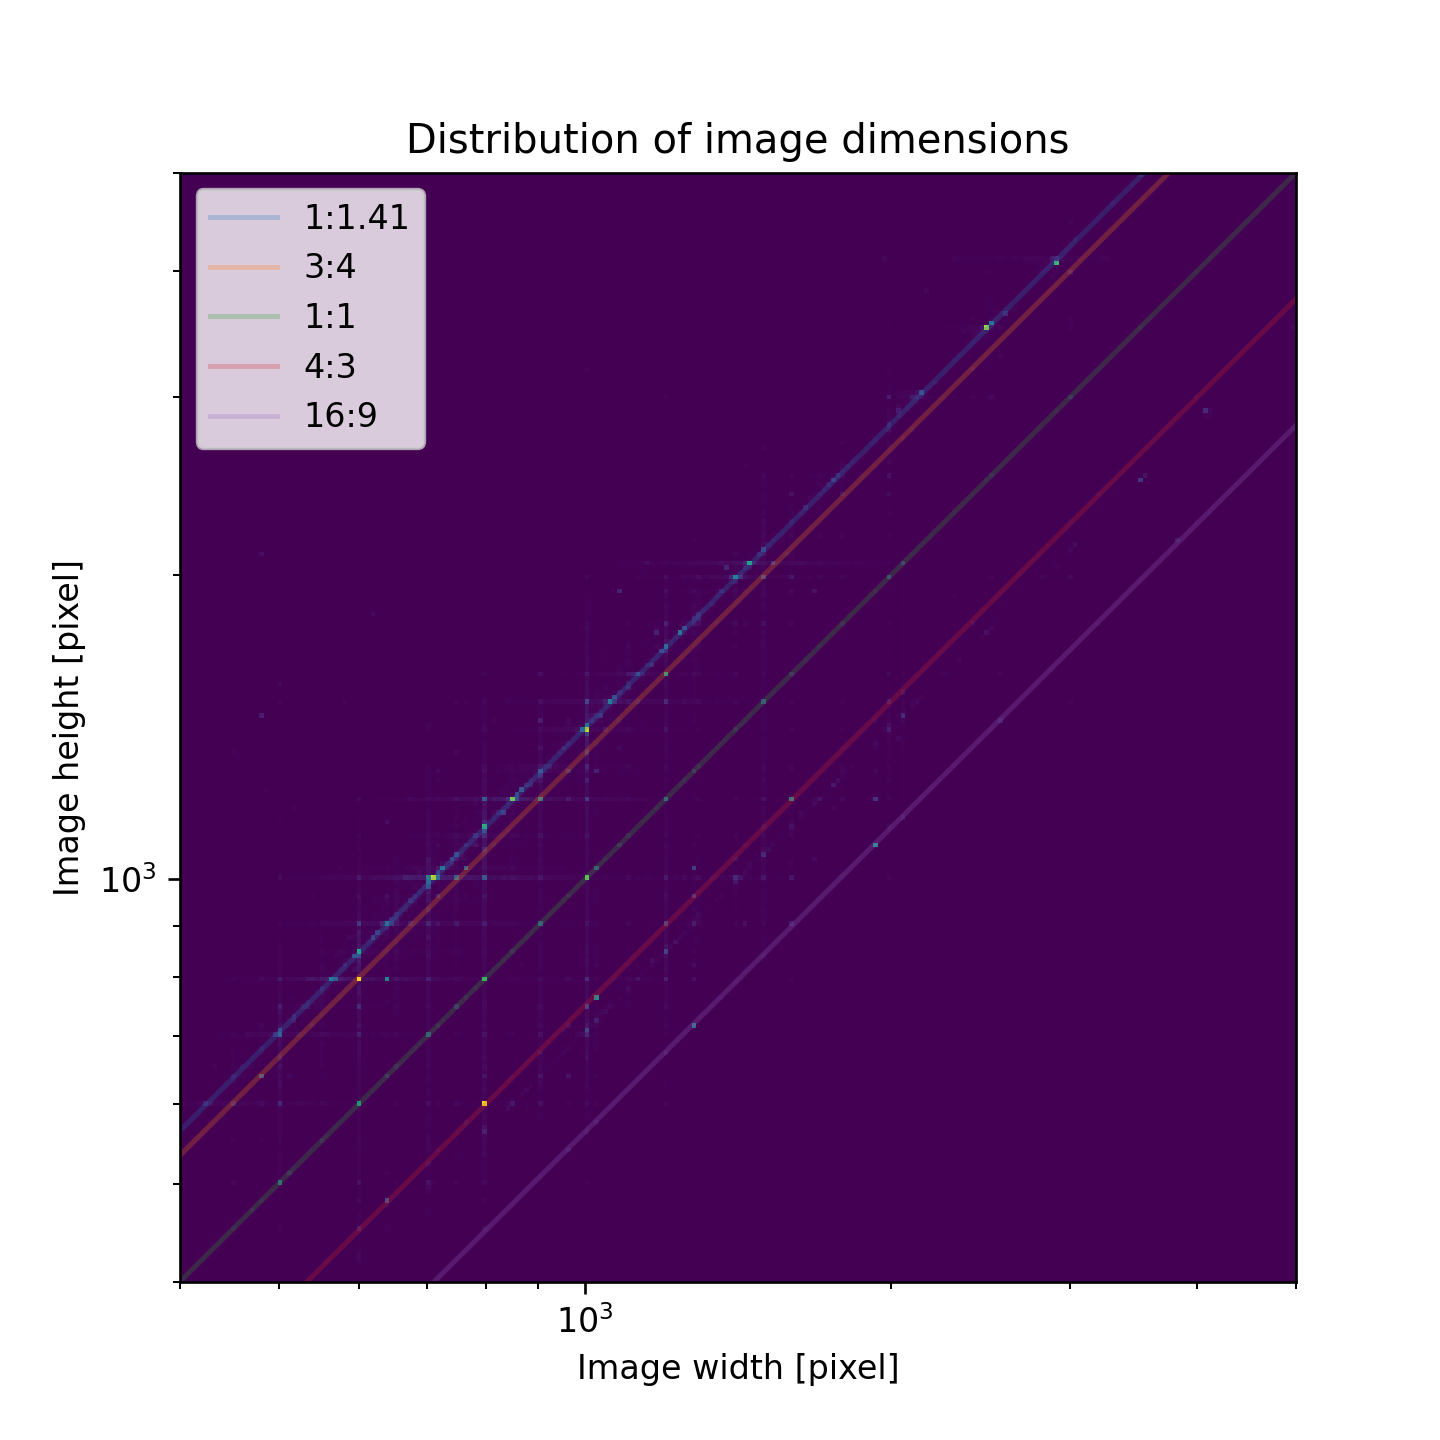
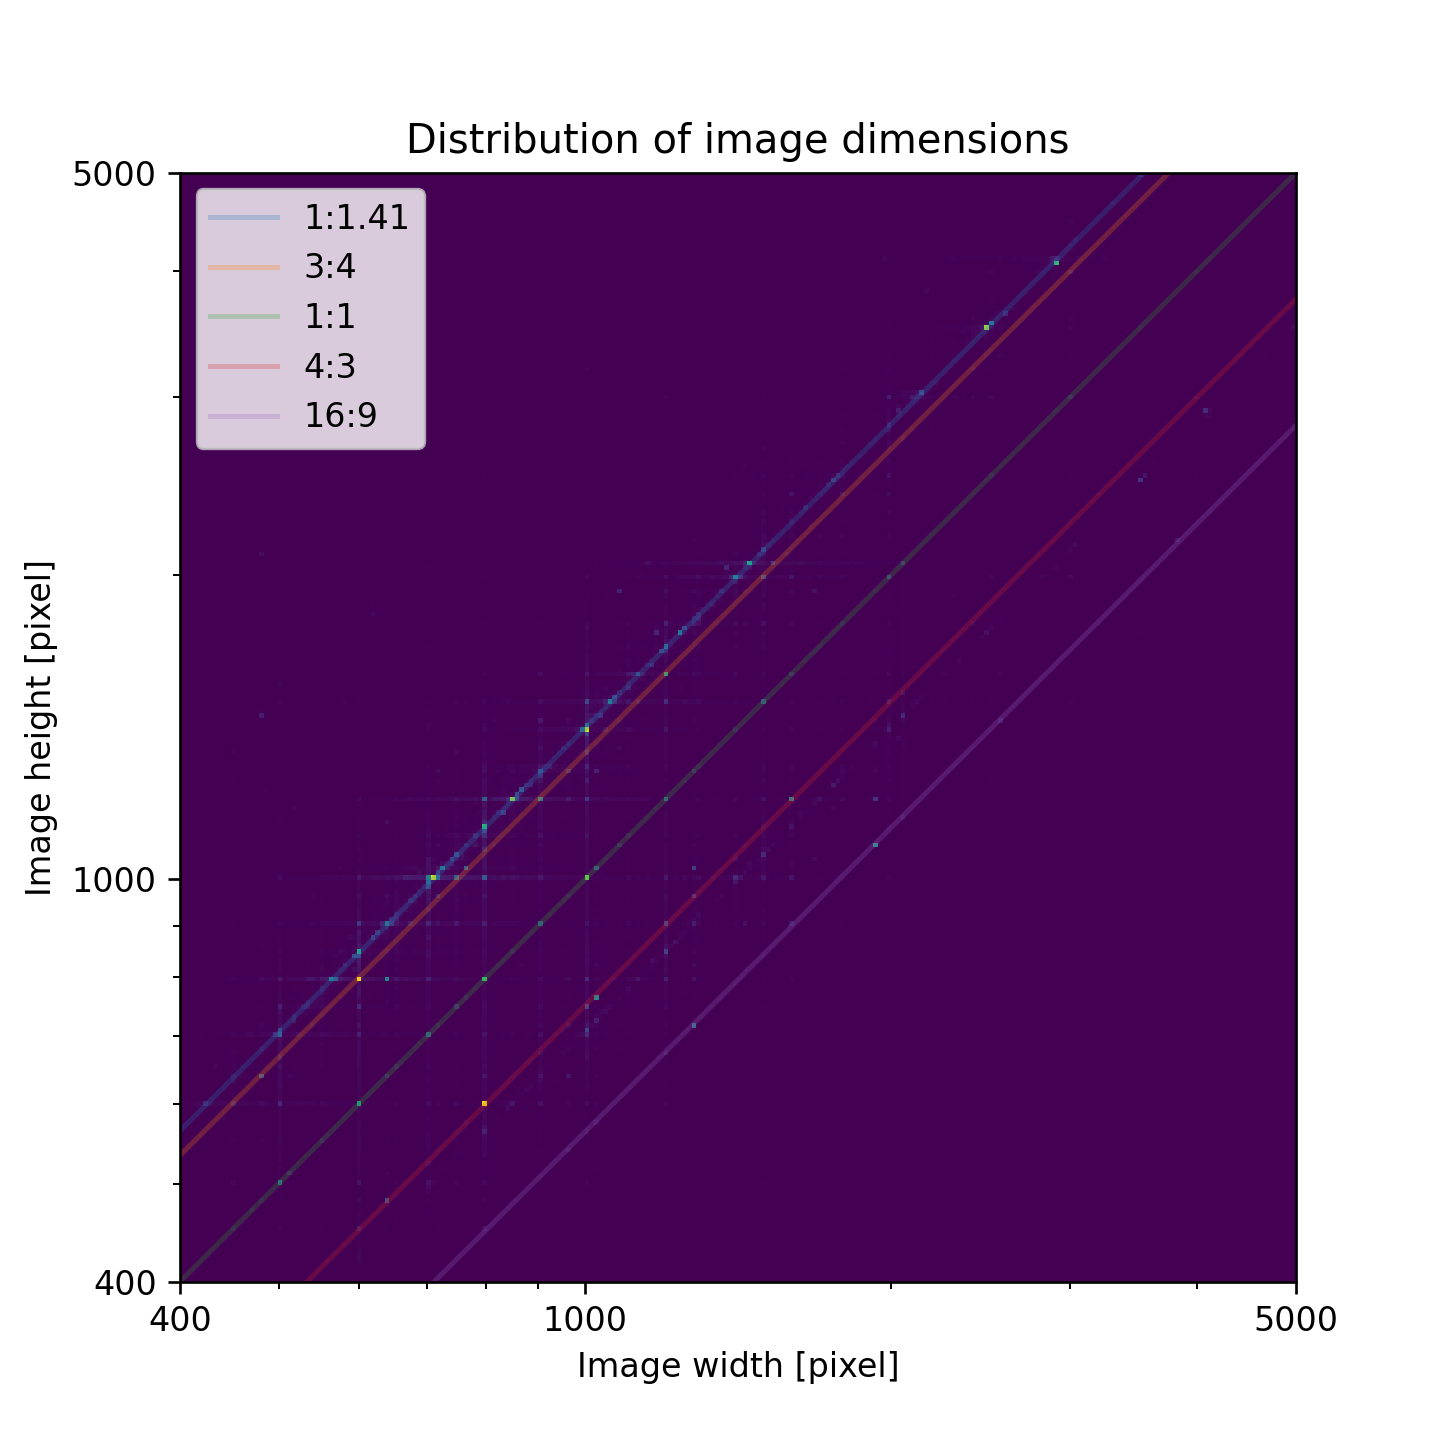
Fixed dimension 2d axis ticks

diff --git a/dimension_2d/dimension_2d.py b/dimension_2d/dimension_2d.py
@@ -73,6 +73,8 @@ plt.plot([start*4/3, stop], [start, stop*3/4], label="4:3", alpha=0.25)
 plt.plot([start*16/9, stop], [start, stop*9/16], label="16:9", alpha=0.25)
 plt.xscale("log")
 plt.yscale("log")
+plt.xticks([start, 1000, stop], labels=[start, 1000, stop])
+plt.yticks([start, 1000, stop], labels=[start, 1000, stop])
 plt.legend(loc="upper left")
 plt.xlabel("Image width [pixel]")
 plt.ylabel("Image height [pixel]")
